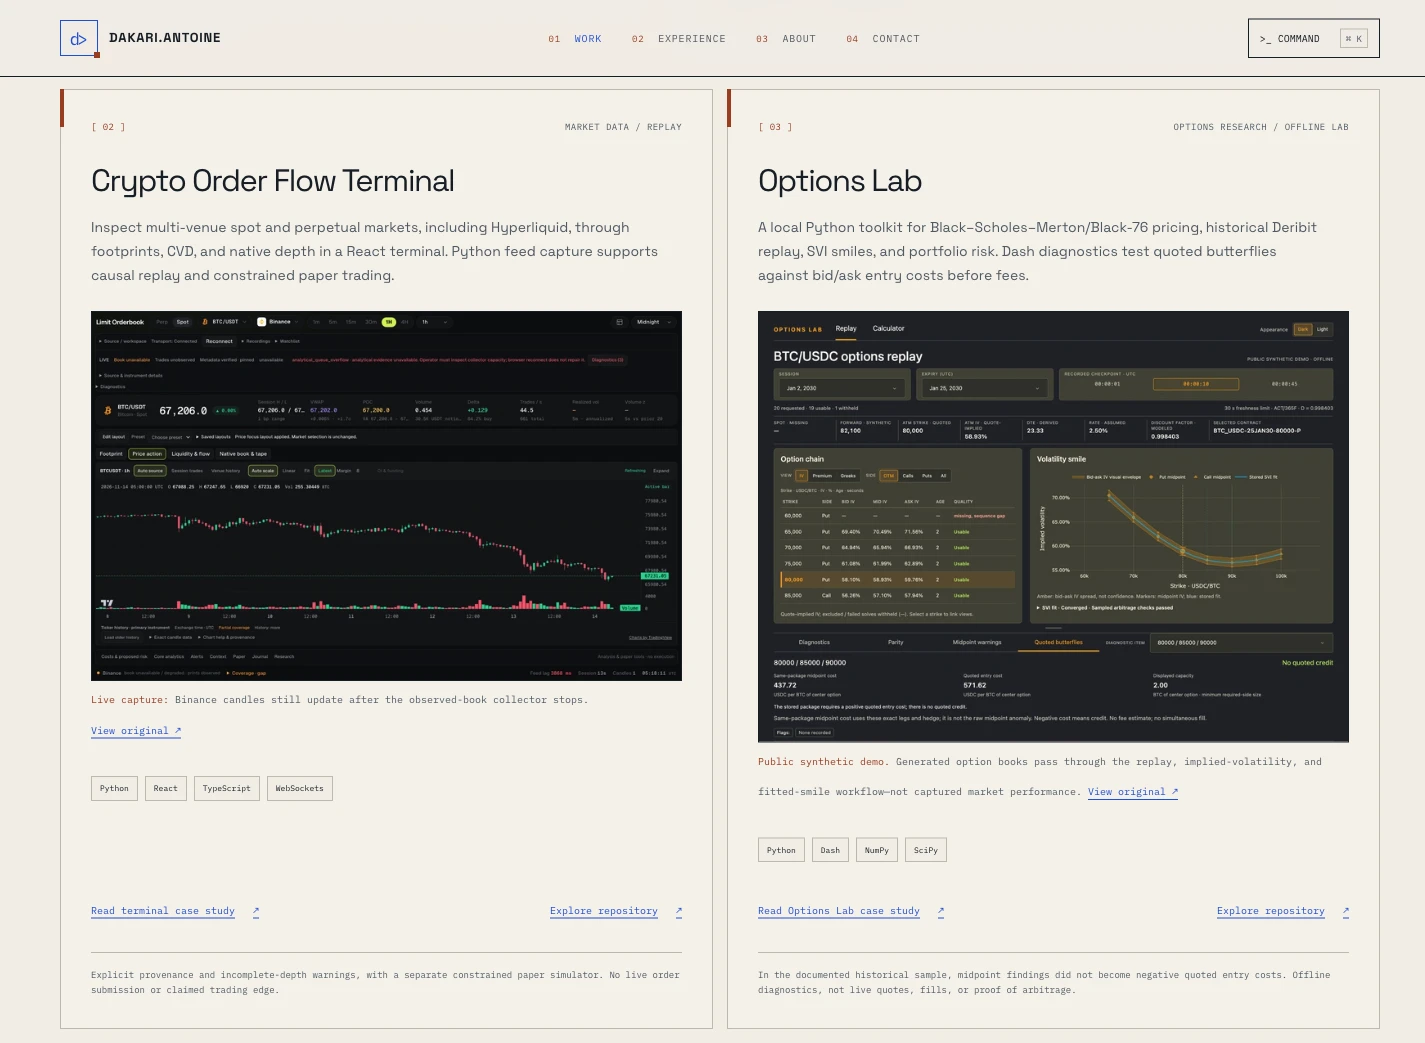
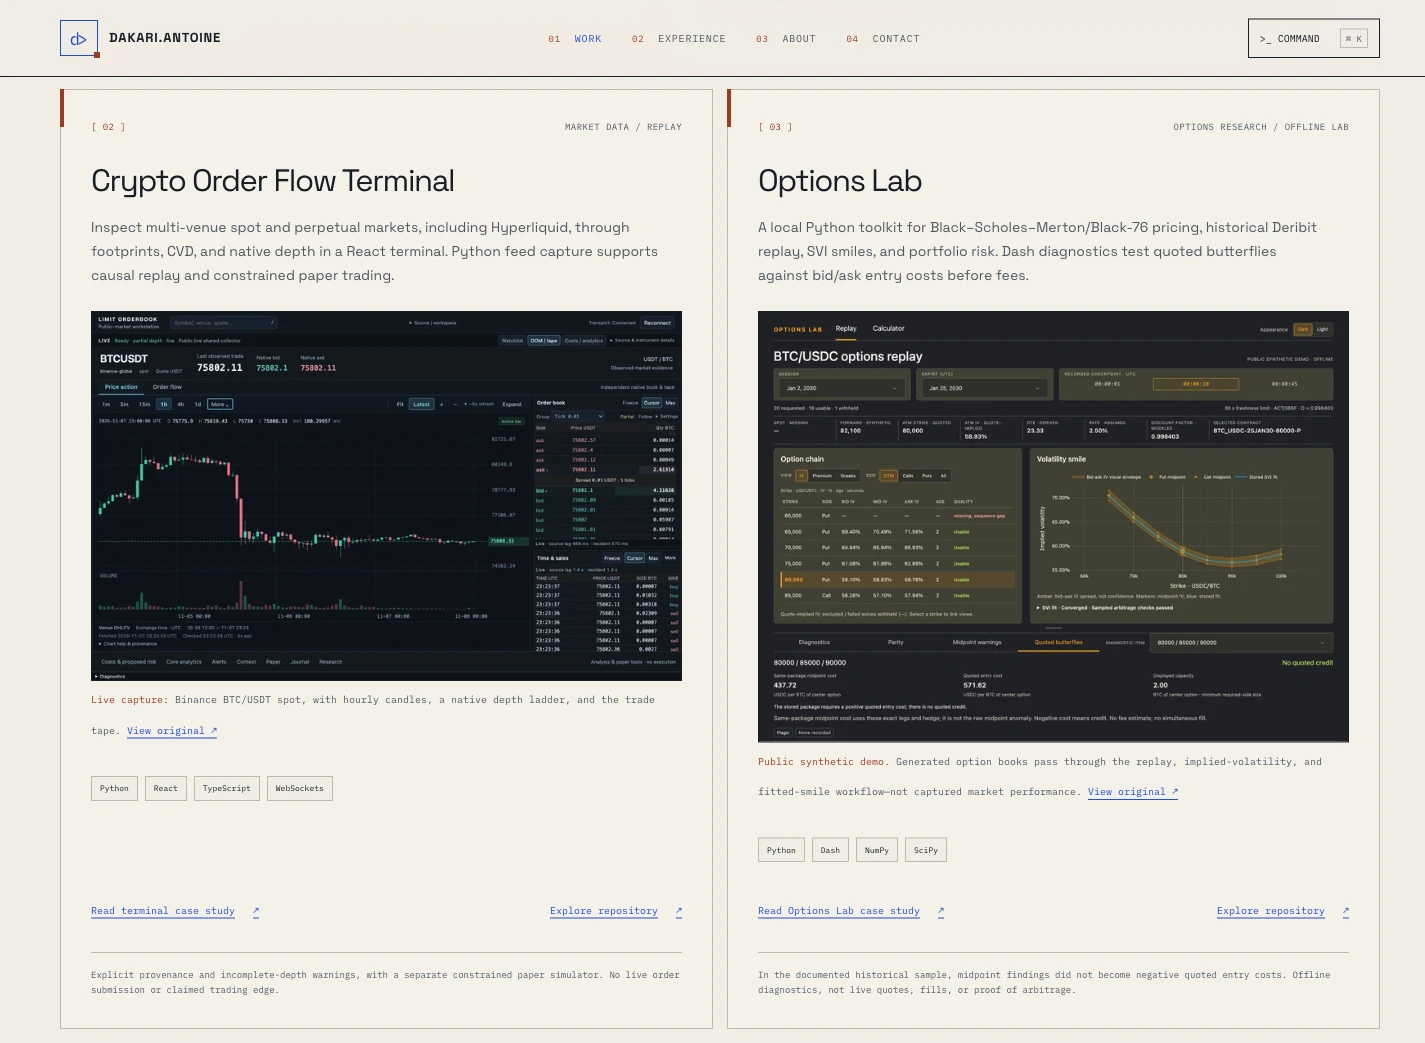
Feature the live depth ladder and retain collector failure evidence

diff --git a/limit-order-book.html b/limit-order-book.html
@@ -9,15 +9,15 @@
     <meta property="og:description" content="From public feeds to inspectable order flow: exact native analytics, deterministic replay, and simulated accounting that keeps failure visible." />
     <meta property="og:type" content="article" />
     <meta property="og:url" content="https://karisheen.github.io/limit-order-book.html" />
-    <meta property="og:image" content="https://karisheen.github.io/assets/images/terminal-price.png" />
+    <meta property="og:image" content="https://karisheen.github.io/assets/images/terminal-live-book.png" />
     <meta property="og:image:width" content="1800" />
     <meta property="og:image:height" content="1125" />
-    <meta property="og:image:alt" content="Binance ticker-history chart in the terminal, with a visible collector overflow and unavailable observed book." />
+    <meta property="og:image:alt" content="Live Binance BTC/USDT hourly candles, partial-depth order book, and time-and-sales tape." />
     <meta name="twitter:card" content="summary_large_image" />
     <meta name="twitter:title" content="Crypto Order Flow Terminal — Dakari Antoine" />
     <meta name="twitter:description" content="Public market data, causal replay, and constrained paper accounting—not live execution." />
-    <meta name="twitter:image" content="https://karisheen.github.io/assets/images/terminal-price.png" />
-    <meta name="twitter:image:alt" content="Binance ticker-history chart with a visible collector overflow and unavailable observed book." />
+    <meta name="twitter:image" content="https://karisheen.github.io/assets/images/terminal-live-book.png" />
+    <meta name="twitter:image:alt" content="Live Binance BTC/USDT hourly candles, partial-depth order book, and time-and-sales tape." />
     <link rel="canonical" href="https://karisheen.github.io/limit-order-book.html" />
     <title>Crypto Order Flow Terminal — Dakari Antoine</title>
     <link rel="icon" href="./assets/favicon.svg" type="image/svg+xml" />
@@ -51,8 +51,8 @@
         </div>
       </header>
       <figure class="case-plate">
-        <a href="./assets/images/terminal-price.png"><img src="./assets/images/terminal-price.png" width="1800" height="1125" fetchpriority="high" decoding="async" alt="Actual Binance BTC/USDT ticker-history workspace with analytical_queue_overflow visible and the observed book unavailable." /></a>
-        <figcaption><strong>Live ticker, failed collector.</strong> Actual application capture: Binance REST ticker-history candles remain visible on a separate data path while <code>analytical_queue_overflow</code> interrupts the collector and leaves observed flow unavailable. <a class="text-link" href="./assets/images/terminal-price.png">View original ↗</a> · <a class="text-link" href="https://github.com/karisheen/Limit-Orderbook/blob/1e814ac866bb12b00aee7aec810f8a6012829ea3/docs/evidence/chart-redesign/live-price-1440-dark.png">Upstream screenshot ↗</a></figcaption>
+        <a href="./assets/images/terminal-live-book.png"><img src="./assets/images/terminal-live-book.png" width="1800" height="1125" fetchpriority="high" decoding="async" alt="Binance BTC/USDT hourly candles with volume, native bid and ask levels, and timestamped trades. The live source reads Ready · partial depth." /></a>
+        <figcaption><strong>Live capture / Binance BTC/USDT spot.</strong> Hourly candles show the price history; the ladder shows resting orders and the tape shows completed trades. The source is ready, with partial—not full-market—depth. <a class="text-link" href="./assets/images/terminal-live-book.png">View original ↗</a> · <a class="text-link" href="https://github.com/karisheen/Limit-Orderbook/blob/1e814ac866bb12b00aee7aec810f8a6012829ea3/docs/evidence/desktop-redesign/manifest.json">Capture record ↗</a></figcaption>
       </figure>
 
       <section class="case-section" aria-labelledby="lob-problem-title">
@@ -111,8 +111,12 @@
         <div class="case-section-label"><span>04</span> MEASUREMENT / REGRESSIONS</div>
         <div class="case-copy">
           <h2 id="lob-evidence-title">A bounded measurement, not a latency promise.</h2>
-          <p>The repository reports <strong>47.6 ms browser receive-to-paint p95</strong> during a four-minute, one-browser, 34-stream live observation. This sampled presentation benchmark is neither exchange-to-screen latency nor sustained-capacity certification. Earlier failed attempts remain documented; it does not erase the collector failure pictured above.</p>
+          <p>The repository reports <strong>47.6 ms browser receive-to-paint p95</strong> during a four-minute, one-browser, 34-stream live observation. This sampled presentation benchmark is neither exchange-to-screen latency nor sustained-capacity certification.</p>
           <p><a class="text-link" href="https://github.com/karisheen/Limit-Orderbook/blob/1e814ac866bb12b00aee7aec810f8a6012829ea3/docs/STABILITY_REVIEW.md#finite-live-acceptance">Measurement conditions ↗</a> · <a class="text-link" href="https://github.com/karisheen/Limit-Orderbook/blob/1e814ac866bb12b00aee7aec810f8a6012829ea3/docs/evidence/terminal-stability-live.json">Committed receipt ↗</a></p>
+          <figure class="case-plate">
+            <a href="./assets/images/terminal-price.png"><img src="./assets/images/terminal-price.png" width="1800" height="1125" loading="lazy" decoding="async" alt="Binance ticker-history chart still visible while the terminal reports analytical_queue_overflow and an unavailable observed book." /></a>
+            <figcaption><strong>Failure case / independent data paths.</strong> In this separate live capture, REST candles remain visible after the observed-book collector overflows. A current chart is not evidence of a healthy book. <a class="text-link" href="./assets/images/terminal-price.png">View original ↗</a> · <a class="text-link" href="https://github.com/karisheen/Limit-Orderbook/blob/1e814ac866bb12b00aee7aec810f8a6012829ea3/docs/evidence/chart-redesign/live-price-1440-dark.png">Upstream screenshot ↗</a></figcaption>
+          </figure>
           <p>Inspectable regressions cover <a href="https://github.com/karisheen/Limit-Orderbook/blob/1e814ac866bb12b00aee7aec810f8a6012829ea3/tests/test_replay.py">replay parity and seek</a>, <a href="https://github.com/karisheen/Limit-Orderbook/blob/1e814ac866bb12b00aee7aec810f8a6012829ea3/tests/test_workstation_analytics.py">analytical exclusions</a>, and <a href="https://github.com/karisheen/Limit-Orderbook/blob/1e814ac866bb12b00aee7aec810f8a6012829ea3/tests/test_workstation_paper_perpetual.py">perpetual accounting</a>. Evidence links are pinned to revision <code>1e814ac</code>; these are upstream receipts, not newly reproduced results.</p>
         </div>
       </section>

diff --git a/index.html b/index.html
@@ -17,9 +17,9 @@
     <meta property="og:url" content="https://karisheen.github.io/" />
     <meta
       property="og:image"
-      content="https://karisheen.github.io/assets/images/terminal-price.png"
+      content="https://karisheen.github.io/assets/images/terminal-live-book.png"
     />
-    <meta property="og:image:alt" content="Crypto Order Flow Terminal with live Binance ticker history and a visible collector interruption" />
+    <meta property="og:image:alt" content="Binance BTC/USDT hourly candles beside the terminal’s live order book and trade tape" />
     <meta property="og:image:width" content="1800" />
     <meta property="og:image:height" content="1125" />
     <meta name="twitter:card" content="summary_large_image" />
@@ -302,7 +302,7 @@
             <figure class="project-plate">
               <img
                 src="./assets/images/terminal-card.webp"
-                alt="Terminal price-history workspace showing Binance BTC/USDT candles and a collector overflow warning"
+                alt="Binance BTC/USDT hourly candles alongside bid and ask levels and recent trades"
                 width="720"
                 height="450"
                 loading="lazy"
@@ -310,8 +310,8 @@
               />
               <figcaption>
                 <strong>Live capture:</strong>
-                Binance candles still update after the observed-book collector stops.
-                <a class="text-link" href="./assets/images/terminal-price.png"
+                Binance BTC/USDT spot, with hourly candles, a native depth ladder, and the trade tape.
+                <a class="text-link" href="./assets/images/terminal-live-book.png"
                   >View original ↗</a
                 >
               </figcaption>
